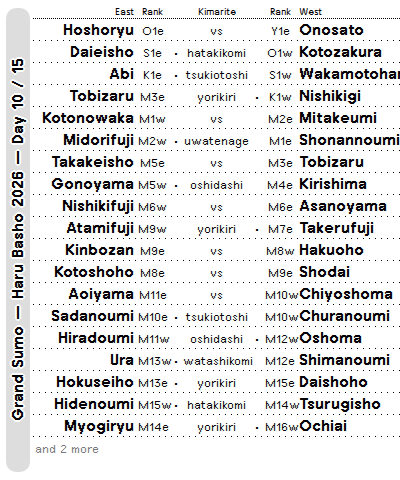
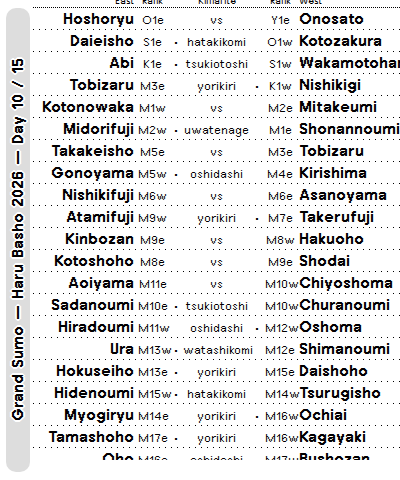
Regenerate stats full and half_vertical previews
All 21 bouts paint on both sizes. The last rows (Tamashoho, Oho)
are visible and the "and 2 more" overflow chip is gone.

diff --git a/previews/stats/half_vertical.html b/previews/stats/half_vertical.html
@@ -15,15 +15,18 @@
       <div class="view view--half_vertical">
         <style>
   :root {
-    --table-xsmall-tbody-height: 13px;
-    --table-xsmall-thead-height: 10px;
+    --table-xsmall-tbody-height: 18px;
+    --table-xsmall-thead-height: 14px;
   }
   .layout { padding: 0 !important; margin: 0 !important; }
   .view { padding: 0 !important; }
   .table.table--xsmall th,
   .table.table--xsmall td {
+    padding-top: 0 !important;
+    padding-bottom: 0 !important;
     padding-left: 2px !important;
     padding-right: 2px !important;
+    line-height: 18px;
   }
 </style>
 
@@ -34,7 +37,7 @@
   </div>
 
   <div class="layout layout--col gap--none" style="flex: 1; min-width: 0;">
-  <table class="table table--xsmall" data-table-limit="true" style="table-layout: fixed; width: 100%;">
+  <table class="table table--xsmall" style="table-layout: fixed; width: 100%;">
     <thead>
       <tr>
         <th style="width: 28%; text-align: right;"><span class="title" style="font-size: 9px;">East</span></th>

diff --git a/previews/stats/full.html b/previews/stats/full.html
@@ -15,11 +15,17 @@
       <div class="view view--full">
         <style>
   :root {
-    --table-xsmall-tbody-height: 13px;
-    --table-xsmall-thead-height: 10px;
+    --table-xsmall-tbody-height: 18px;
+    --table-xsmall-thead-height: 14px;
   }
   .layout { padding: 0 !important; margin: 0 !important; }
   .view { padding: 0 !important; }
+  .table.table--xsmall th,
+  .table.table--xsmall td {
+    padding-top: 0 !important;
+    padding-bottom: 0 !important;
+    line-height: 18px;
+  }
 </style>
 
 <div style="display: flex; flex-direction: row; width: 800px; height: 480px; overflow: hidden;">
@@ -29,7 +35,7 @@
   </div>
 
   <div class="layout layout--col gap--none" style="flex: 1; min-width: 0;">
-  <table class="table table--xsmall" data-table-limit="true">
+  <table class="table table--xsmall">
     <thead>
       <tr>
         <th style="text-align: right;"><span class="title" style="font-size: 9px;">East</span></th>
